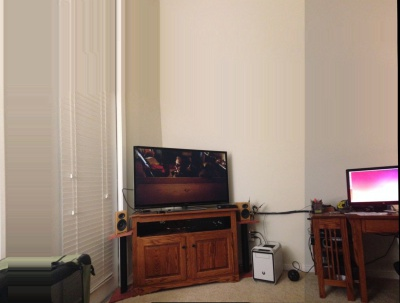
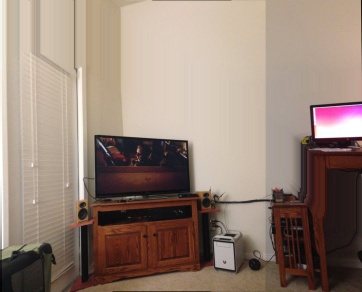
update seam carving

diff --git a/code/pano.py b/code/pano.py
@@ -4,7 +4,7 @@ import sys
 from matchers import matchers
 import time
 import math
-import seamFilling
+import seamCarving as sc
 import imutils
 import utils
 
@@ -124,18 +124,12 @@ if __name__ == '__main__':
     s.rightshift()
     print ("done")
     result = s.leftImage
-    # cv2.imshow("result", result)
-    cv2.waitKey()
+    # result = cv2.imread("stitching-result.jpg")
     result = cv2.cvtColor(result, cv2.COLOR_BGR2RGB)
-    result = utils.im2float(result)
     result = imutils.resize(result, width=400)
-    result = seamFilling.fill_left(result, [50, 350], k=40)
-    result = seamFilling.fill_up(result, [50, 100], k=40)
-    result = seamFilling.fill_down(result, [50, 100], k=40)
-    result = utils.float2im(result)
+    result = sc.preprocess(result)
+    result = sc.fill(result, iter=500)
     result = cv2.cvtColor(result, cv2.COLOR_RGB2BGR)
-    # cv2.imshow("result", result)
-    cv2.waitKey()
     cv2.imwrite("test.jpg", result)
     print ("image written")
     cv2.destroyAllWindows()
